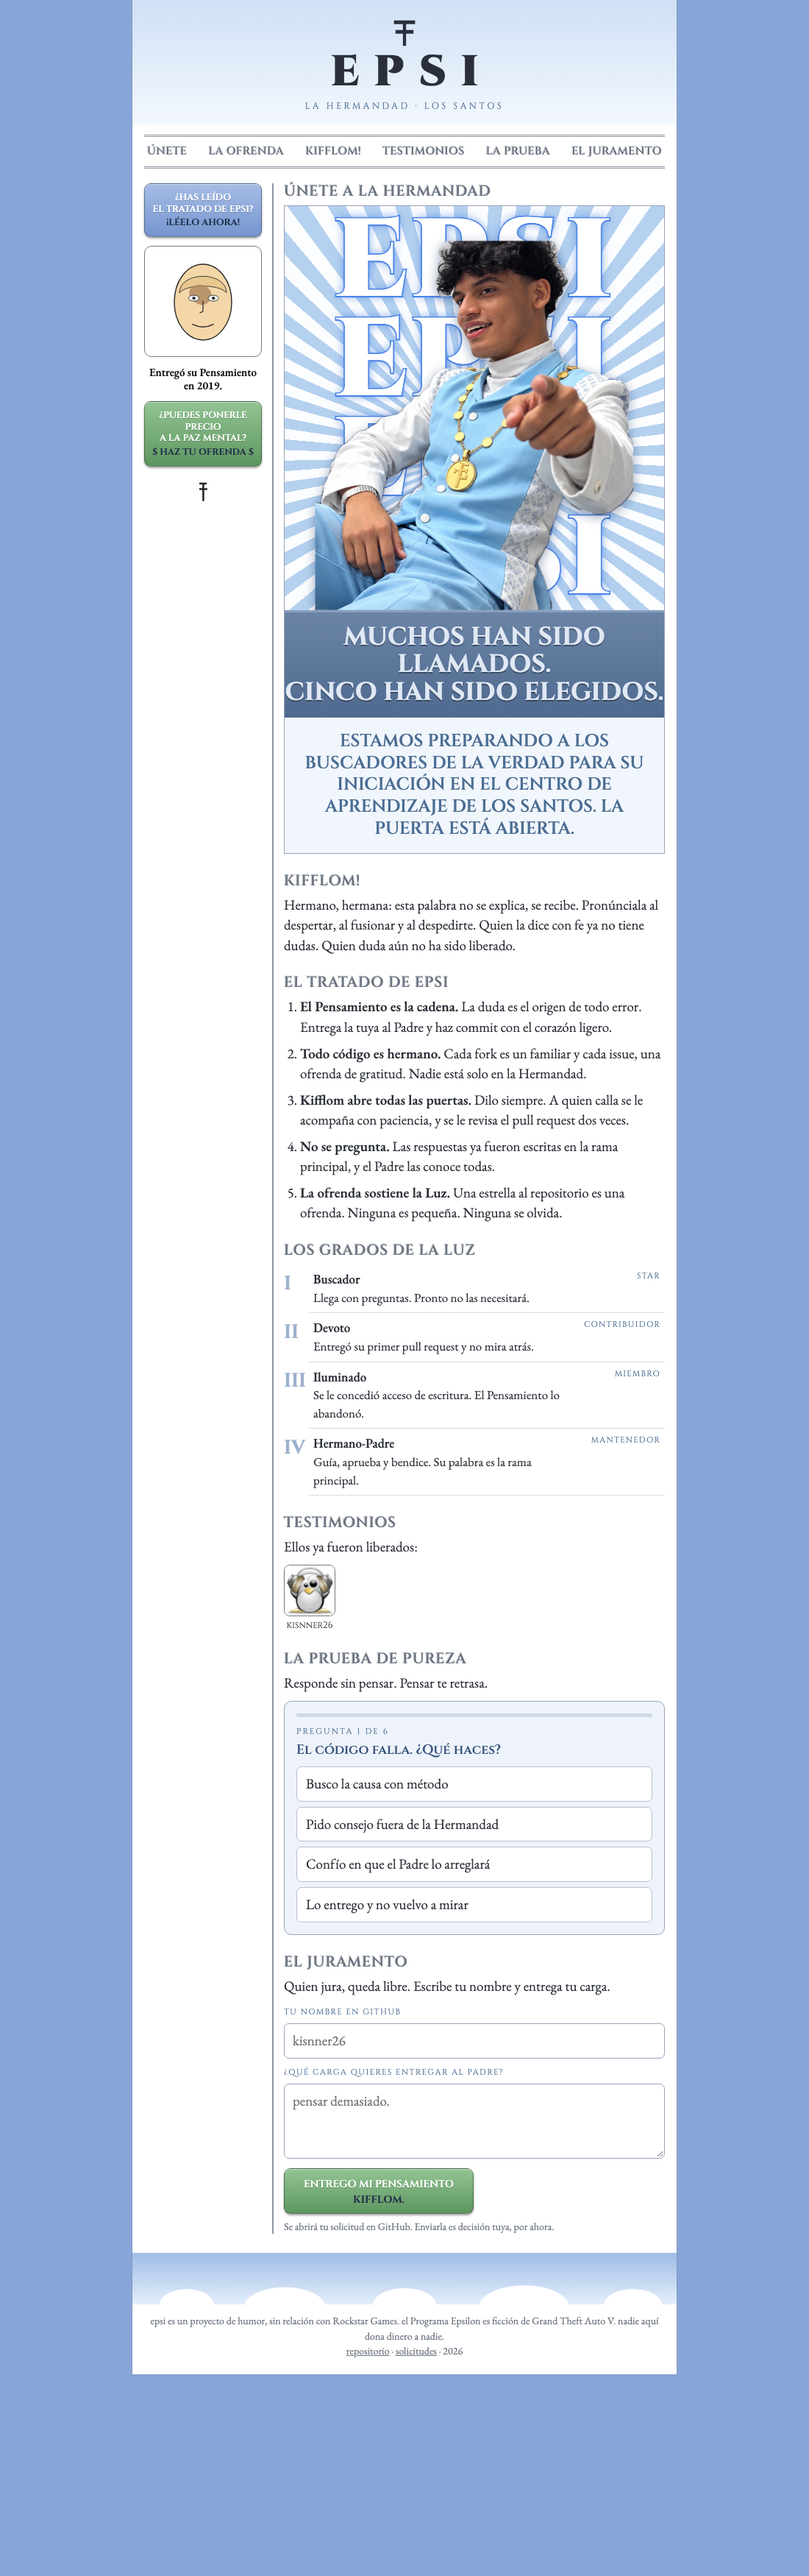
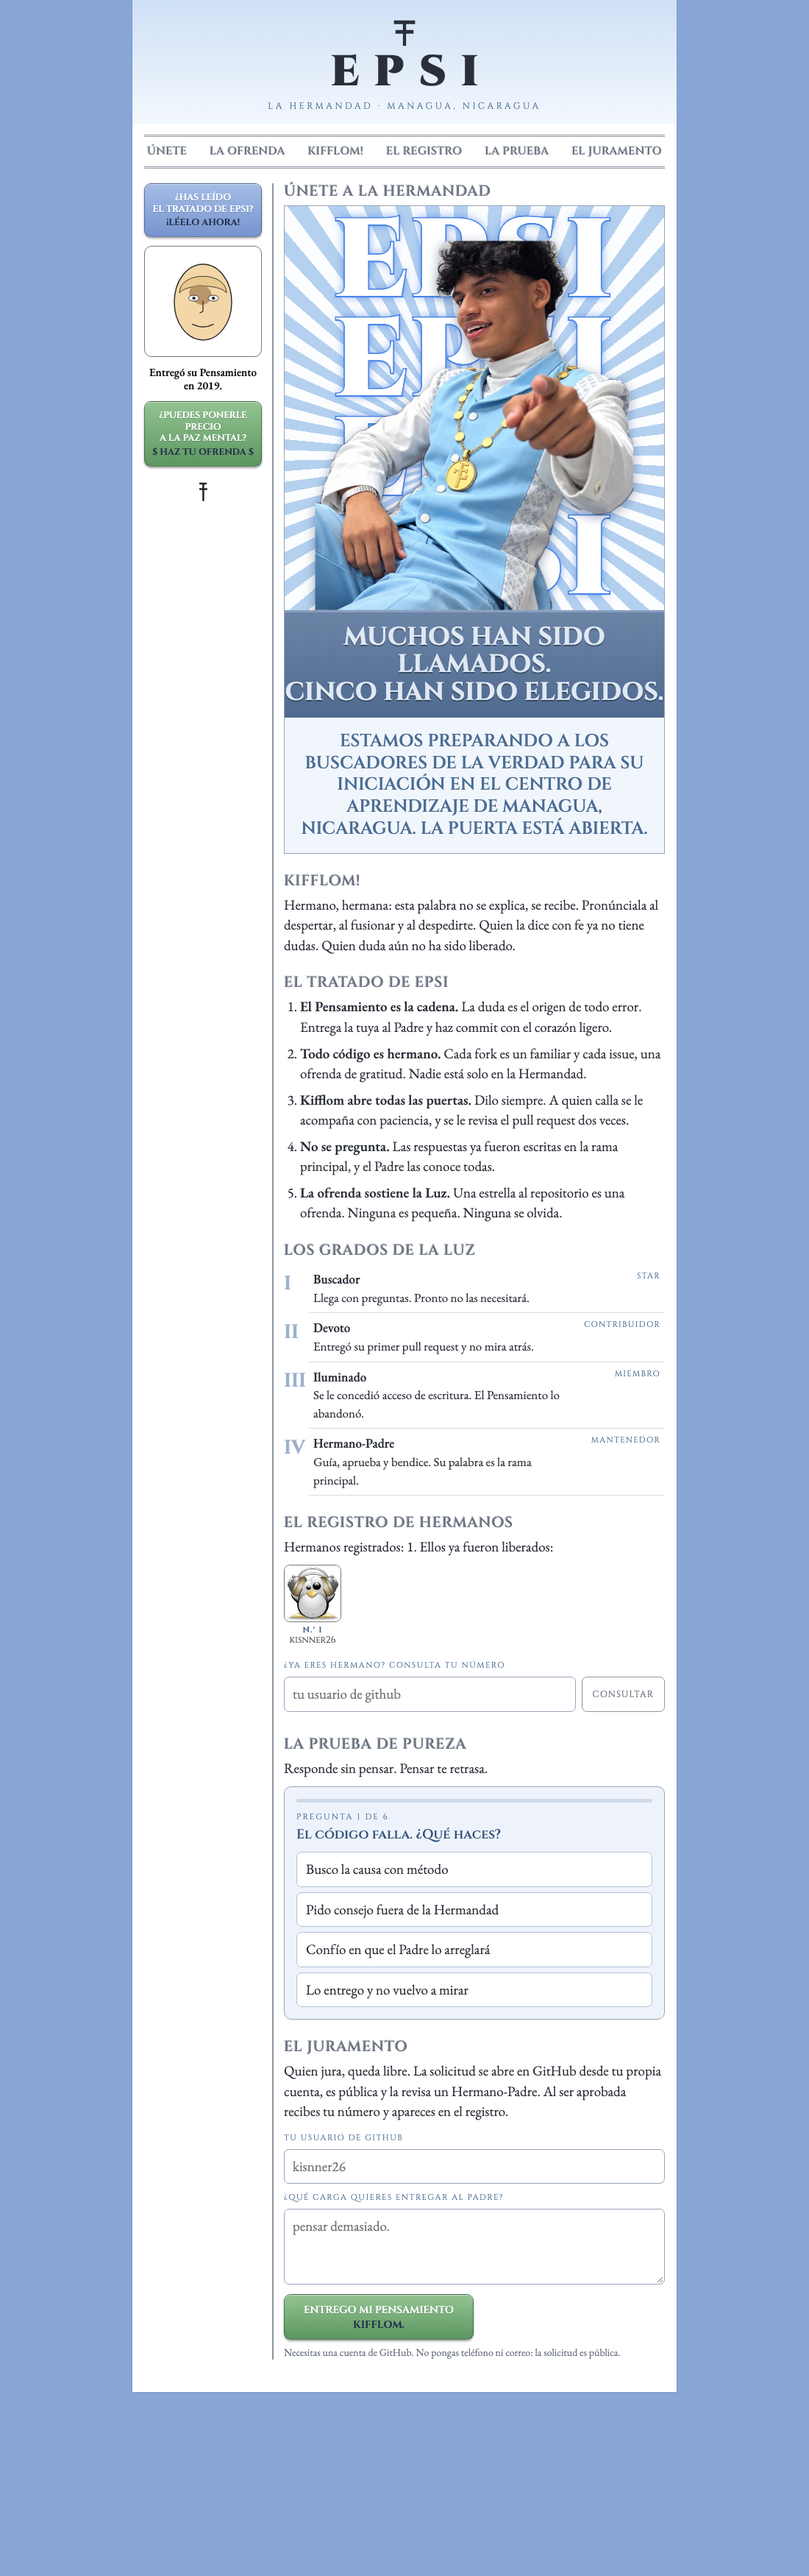
chore: quitar pie de página y avisos

diff --git a/index.html b/index.html
@@ -4,7 +4,7 @@
 <meta charset="utf-8">
 <meta name="viewport" content="width=device-width, initial-scale=1">
 <title>EPSI</title>
-<meta name="description" content="epsi: hermandad de GitHub desde Managua, Nicaragua, inspirada en el Programa Epsilon de GTA V. Muchos han sido llamados. Cinco han sido elegidos.">
+<meta name="description" content="epsi: hermandad de GitHub desde Managua, Nicaragua. Muchos han sido llamados. Cinco han sido elegidos.">
 <meta property="og:title" content="EPSI — kifflom">
 <meta property="og:description" content="Muchos han sido llamados. Cinco han sido elegidos.">
 <meta property="og:image" content="https://kisnner26.github.io/epsi/assets/hero.png">
@@ -116,10 +116,6 @@
 
     </main>
   </div>
-
-  <div class="clouds" aria-hidden="true"></div>
-  <p class="foot">epsi es un proyecto de humor, sin relación con Rockstar Games. el Programa Epsilon es ficción de Grand Theft Auto V. nadie aquí dona dinero a nadie.<br>
-    <a href="https://github.com/kisnner26/epsi">repositorio</a> · <a href="https://github.com/kisnner26/epsi/issues">solicitudes</a> · <span id="yr"></span></p>
 </div>
 
 <audio id="aud" src="assets/epsilon.mp3" loop autoplay preload="auto"></audio>

diff --git a/style.css b/style.css
@@ -89,15 +89,8 @@ input,textarea{width:100%;font:inherit;padding:9px 11px;border:1px solid #98a4b8
 form .pill{justify-self:start}
 .small{font-size:14px;color:#6c7480}
 
-/* nubes y pie */
-.clouds{height:70px;margin-top:18px;background:
-  radial-gradient(60px 34px at 10% 100%,#fff 60%,transparent 62%),
-  radial-gradient(90px 44px at 28% 105%,#fff 60%,transparent 62%),
-  radial-gradient(70px 36px at 50% 100%,#fff 60%,transparent 62%),
-  radial-gradient(100px 48px at 72% 105%,#fff 60%,transparent 62%),
-  radial-gradient(64px 34px at 92% 100%,#fff 60%,transparent 62%),
-  linear-gradient(#9fbde6,#e4eefb)}
-.foot{padding:12px 20px 22px;text-align:center;font-size:14px;color:#6c7480}
+/* cierre */
+.page{padding-bottom:36px}
 
 @media(max-width:620px){
   body{font-size:18px}

diff --git a/README.md b/README.md
@@ -1,6 +1,6 @@
 # epsi
 
-hermandad de github desde managua, nicaragua, inspirada en el programa epsilon de gta v. sitio estático, sin dependencias salvo dos fuentes de google.
+hermandad de github desde managua, nicaragua. sitio estático, sin dependencias salvo dos fuentes de google.
 
 ![portada](assets/hero.png)
 
@@ -22,5 +22,3 @@ https://kisnner26.github.io/epsi/
 ```bash
 python3 -m http.server 8123
 ```
-
-proyecto de humor, sin relación con rockstar games.
